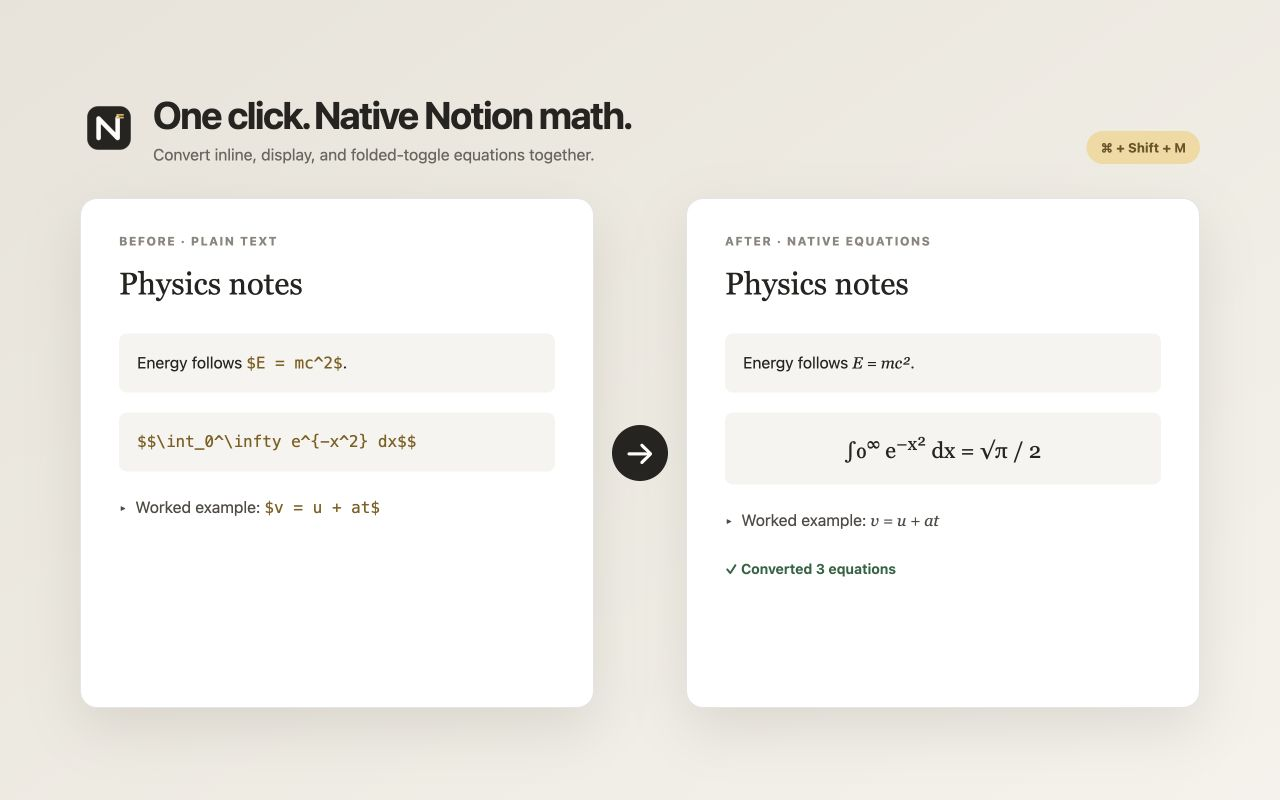
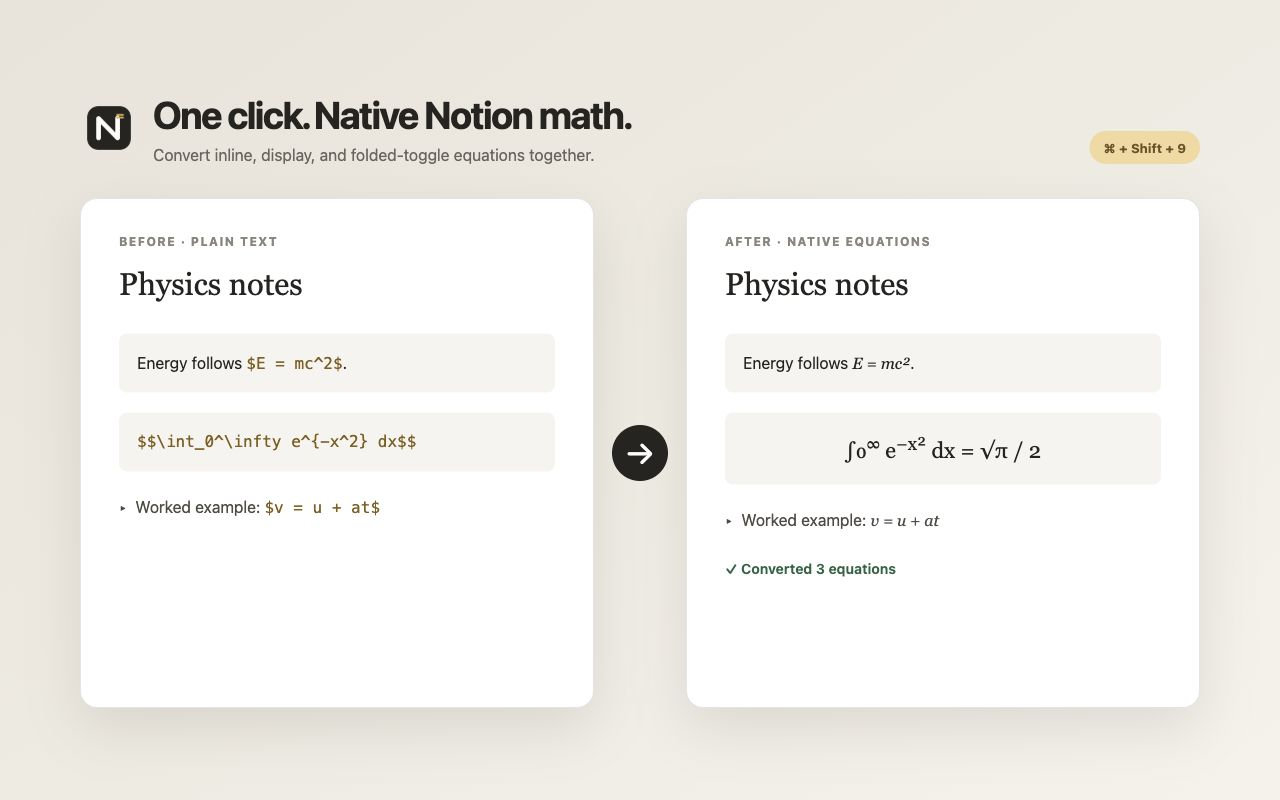
fix: use a less common conversion shortcut

diff --git a/tests/manifest.test.ts b/tests/manifest.test.ts
@@ -13,7 +13,10 @@ describe("development manifest", () => {
       host_permissions?: string[];
       content_scripts?: unknown[];
       action?: { default_popup?: string };
-      commands?: Record<string, unknown>;
+      commands?: Record<
+        string,
+        { suggested_key?: { default?: string; mac?: string } }
+      >;
     };
 
     assert.equal(manifest.manifest_version, 3);
@@ -23,5 +26,9 @@ describe("development manifest", () => {
     assert.equal(manifest.host_permissions, undefined);
     assert.equal(manifest.content_scripts, undefined);
     assert.ok(manifest.commands?.["convert-page"]);
+    assert.deepEqual(manifest.commands?.["convert-page"]?.suggested_key, {
+      default: "Ctrl+Shift+9",
+      mac: "Command+Shift+9",
+    });
   });
 });

diff --git a/popup.html b/popup.html
@@ -31,7 +31,7 @@
     </p>
 
     <footer>
-      Shortcut <kbd id="shortcut">Ctrl</kbd><span>+</span><kbd>Shift</kbd><span>+</span><kbd>M</kbd>
+      Shortcut <kbd id="shortcut">Ctrl</kbd><span>+</span><kbd>Shift</kbd><span>+</span><kbd>9</kbd>
     </footer>
   </main>
   <script src="popup.js"></script>

diff --git a/store/screenshot-before-after.html b/store/screenshot-before-after.html
@@ -49,7 +49,7 @@
         <img src="../icons/icon-128.png" alt="">
         <div><h1>One click. Native Notion math.</h1><p>Convert inline, display, and folded-toggle equations together.</p></div>
       </div>
-      <div class="shortcut">⌘ + Shift + M</div>
+      <div class="shortcut">⌘ + Shift + 9</div>
     </header>
     <section class="comparison">
       <article class="panel">

diff --git a/README.md b/README.md
@@ -40,7 +40,7 @@ To test the unpacked extension:
 2. Open `chrome://extensions` in Chrome.
 3. Enable Developer mode and choose **Load unpacked**.
 4. Select the generated `dist` directory.
-5. Open an editable Notion page and select **Convert equations**, or press `Ctrl+Shift+M` (`Command+Shift+M` on macOS).
+5. Open an editable Notion page and select **Convert equations**, or press `Ctrl+Shift+9` (`Command+Shift+9` on macOS).
 
 ## Release
 

diff --git a/store/LISTING.md b/store/LISTING.md
@@ -25,7 +25,7 @@ Key features:
 - No accounts, analytics, tracking, or network requests
 - Access limited to the active tab after an explicit user action
 
-Keyboard shortcut: `Ctrl+Shift+M` on Windows, Linux, and ChromeOS; `Command+Shift+M` on macOS. Shortcuts can be changed at `chrome://extensions/shortcuts`.
+Keyboard shortcut: `Ctrl+Shift+9` on Windows, Linux, and ChromeOS; `Command+Shift+9` on macOS. Shortcuts can be changed at `chrome://extensions/shortcuts`.
 
 Notion Equation is an independent extension and is not affiliated with Notion Labs, Inc.
 